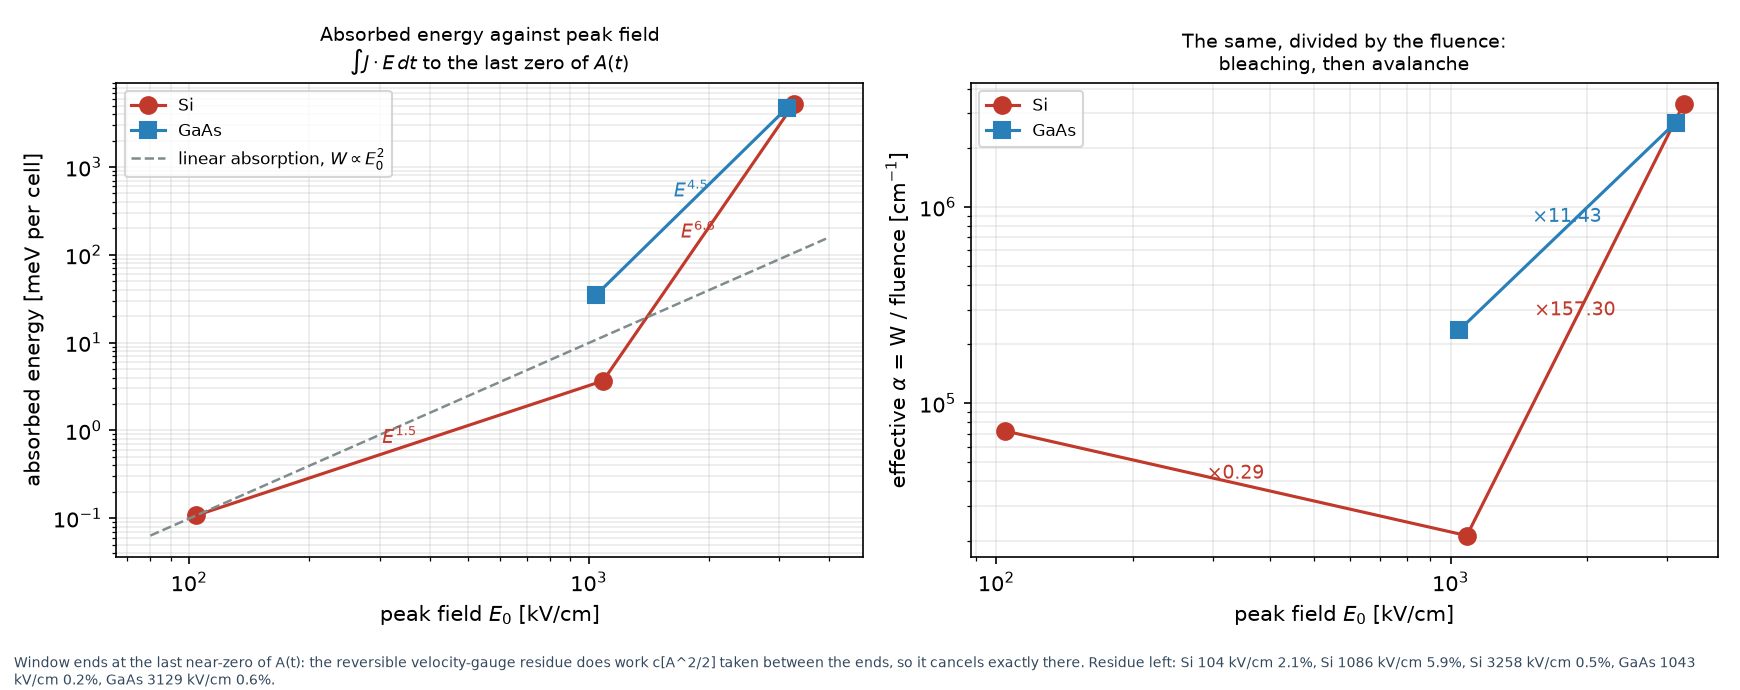
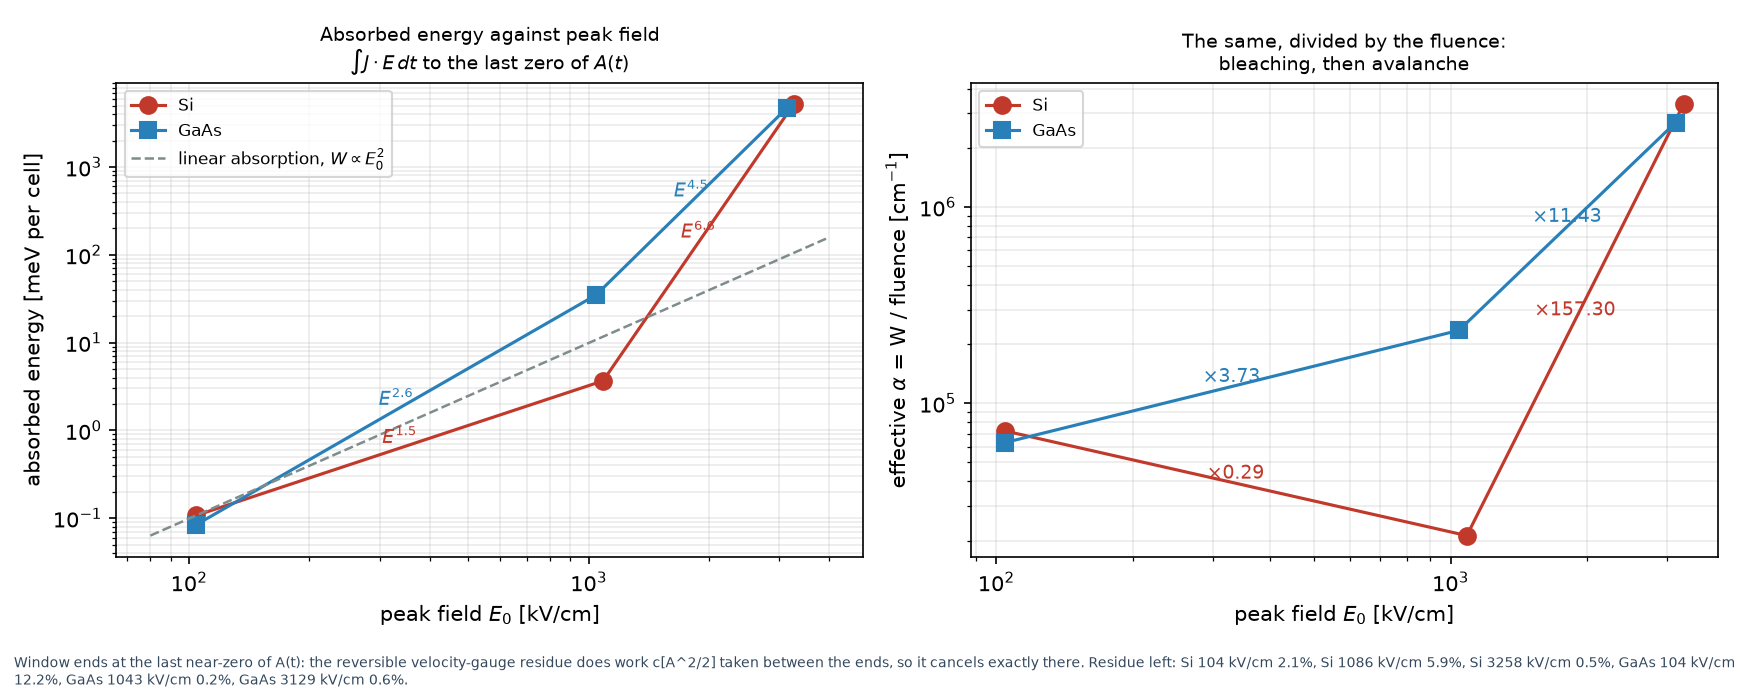
The missing GaAs low-field point, and the eta it corrects
The 104 kV/cm GaAs run turned up after all, and it is the linear reference the
archive was missing: A returns to 0.008 of its peak by the end of the record,
so the window that makes int J.E dt honest is the record itself.

It also corrects a number. eta, the uncancelled diamagnetic fraction, must be
read at the LOWEST field: the slope of J against A carries the real free
carriers too, and at 1043 kV/cm those are 60 % of it for GaAs. Quoted from that
run eta came out 2.8 %, above the threshold at which the code warns; measured
at 104 kV/cm, where the carriers contribute nothing, it is 1.03 % -- comparable
to Si's 0.73 % and below the warning. Both materials are in the same mild
regime, and it is the 1/w^2 amplification at THz, not a large eta, that makes
the residue ruinous there.

With the point in place the two materials part company below 1 MV/cm. Si
BLEACHES -- W ~ E^1.51 against the E^2 of linear absorption, effective alpha
7.2e4 -> 2.1e4 1/cm, a factor 0.29. GaAs does the opposite, W ~ E^2.62 and
alpha 6.3e4 -> 2.4e5, a factor 3.73. They cross at 104 kV/cm within 13 % of
each other and fan apart from there. Above 1 MV/cm both avalanche, Si by 157x
and GaAs by 11x.

Residue left after the cut: 2.1, 5.9, 0.5 % for Si and 12.2, 0.2, 0.6 % for
GaAs. The GaAs 104 kV/cm point is the weakest of the six because W itself is
smallest there, so its factor of 3.73 should be read as a direction, not a
calibration.

32/32.
[…]

diff --git a/samples/exercise_x11_full_dissipation_showcase/thz_permittivity.py b/samples/exercise_x11_full_dissipation_showcase/thz_permittivity.py
@@ -10,7 +10,11 @@ disagree by three orders of magnitude, and the disagreement is the point.
              filled sea at every A. An nb-band basis does not: it leaves eta N_e A/V,
              with eta the oscillator strength the truncation fails to capture (the
              startup banner prints it). This is a BASIS effect, not a mesh effect -- a
-             denser k-mesh does not touch it. What is left is reversible, tracking A(t)
+             denser k-mesh does not touch it. Measure eta on the LOWEST field available:
+             at high field the slope of J against A also carries the real free carriers
+             (60 % of it for GaAs at 1043 kV/cm), so reading eta there overstates it. On
+             this archive the clean numbers are 0.73 % (Si) and 1.03 % (GaAs), both at
+             104 kV/cm, where the carriers contribute nothing to the slope. What is left is reversible, tracking A(t)
              rather than E(t), and at THz it is ruinous: the residue scales as A = E/w
              while the polarisation current it has to be compared with scales as w E, so
              the contamination grows as 1/w^2. eta of a per cent is invisible in the
